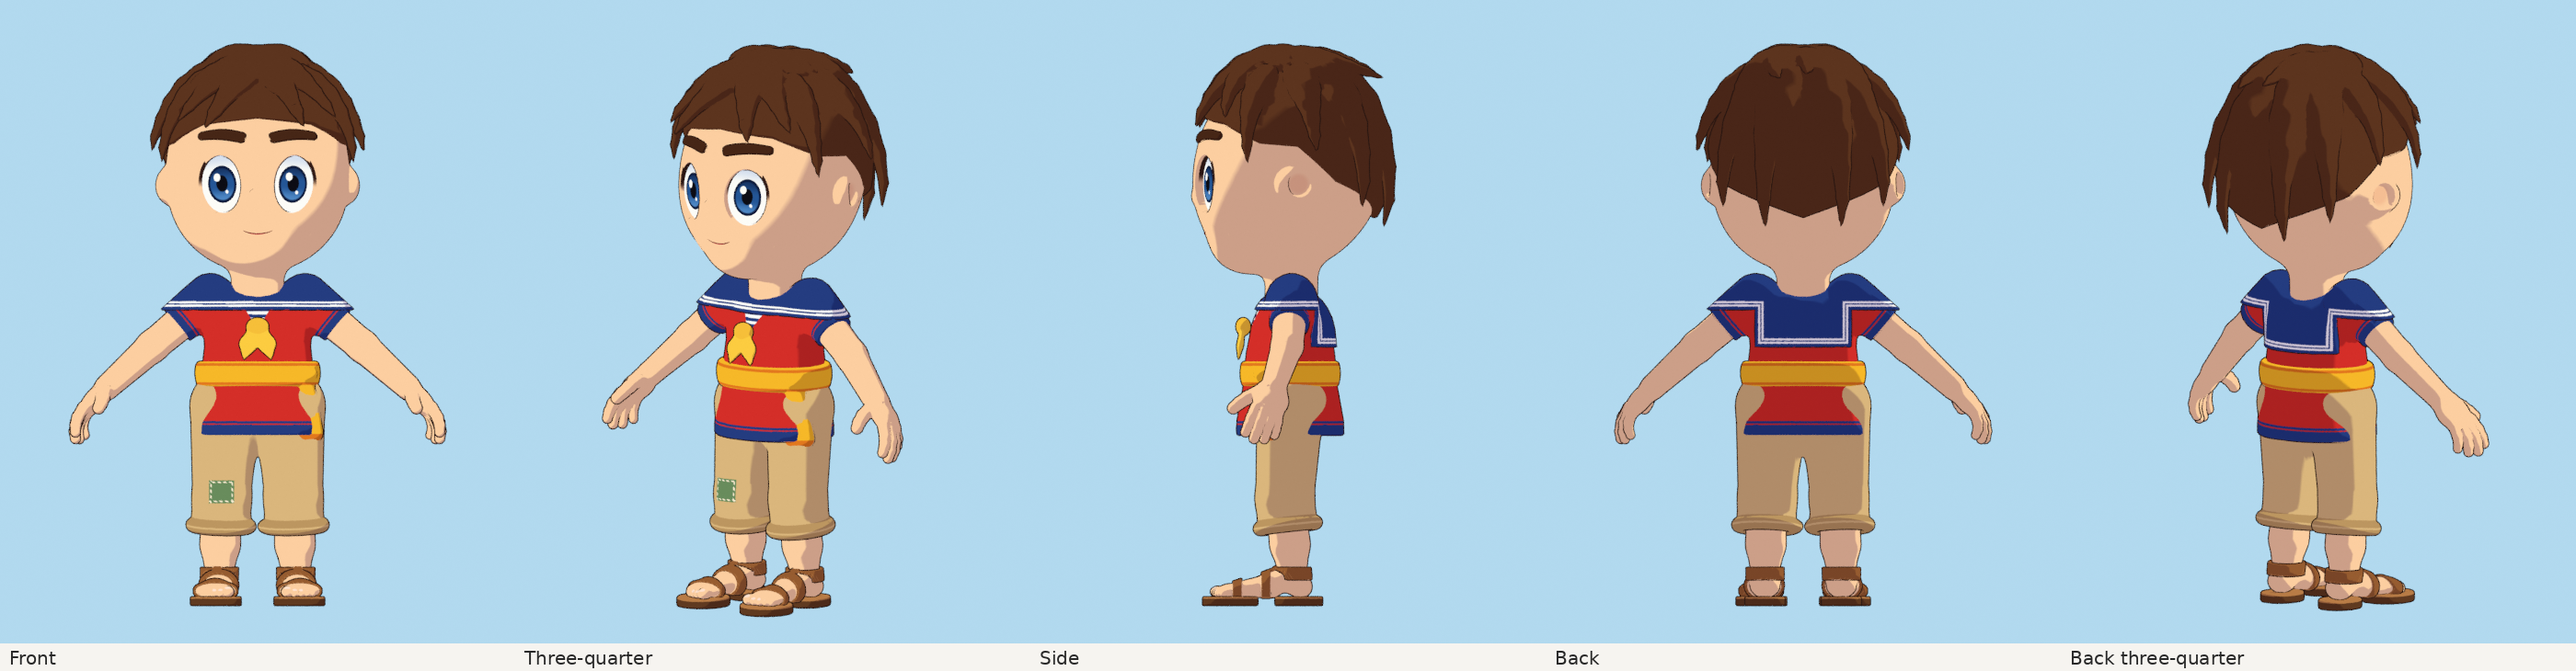
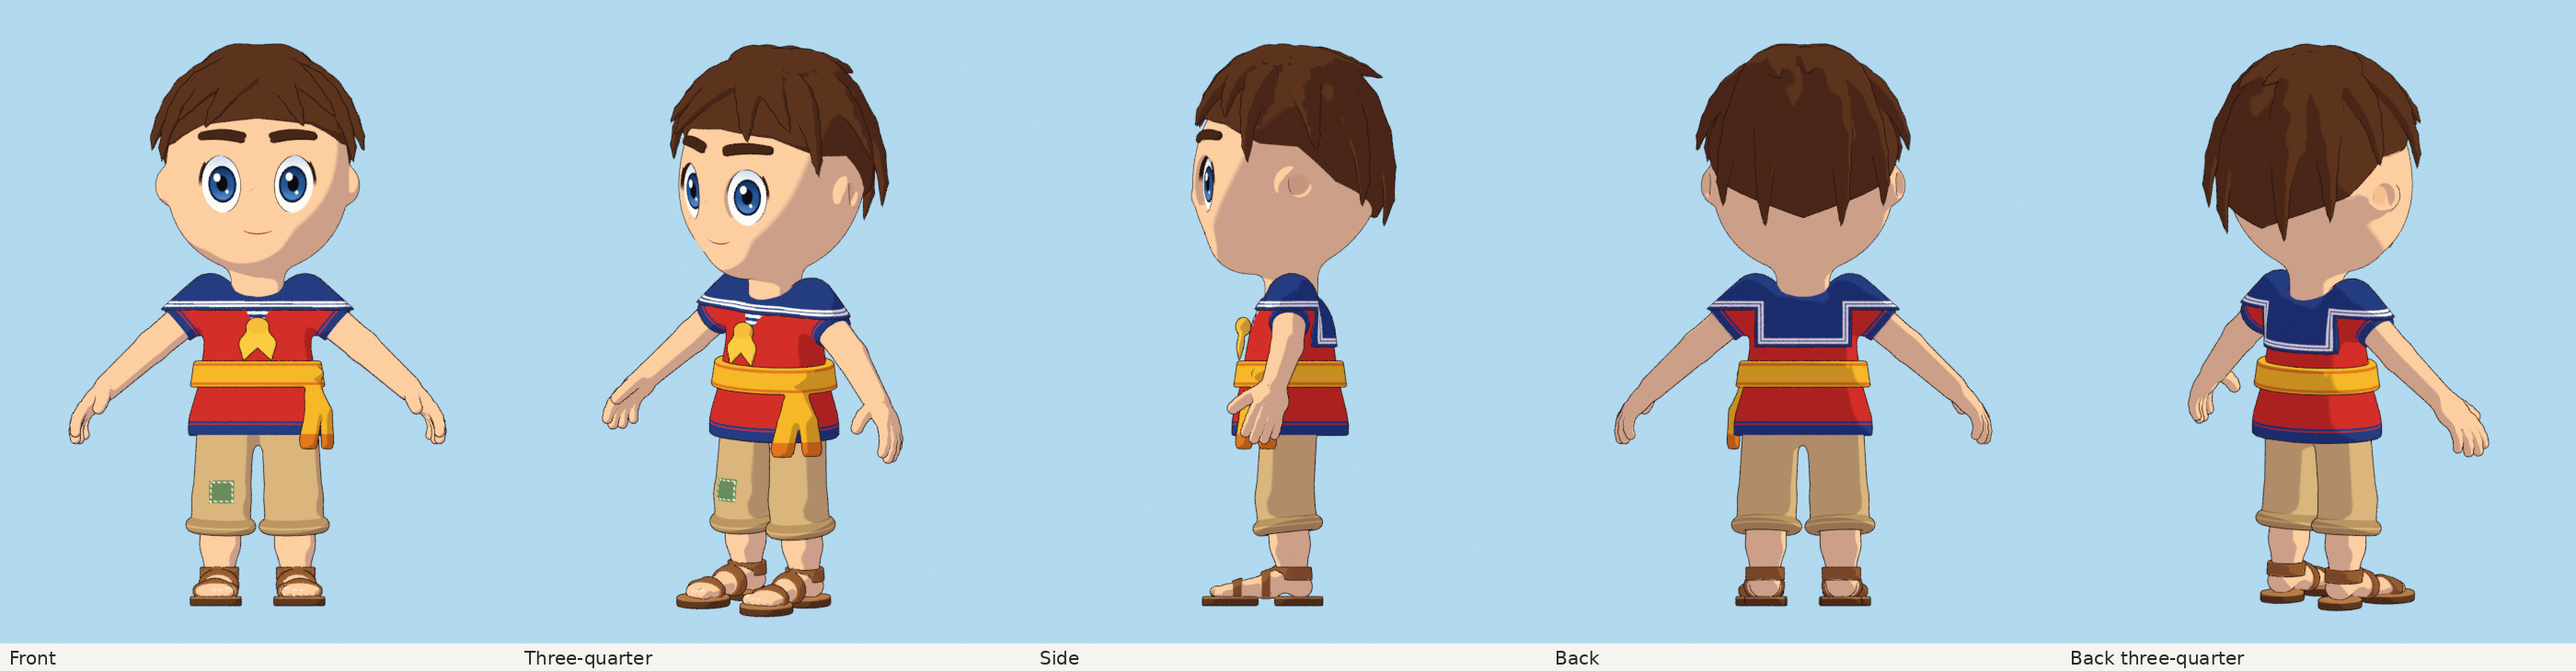
Kai: remove all layer clipping and add a clearance audit
Pants stay under the tunic, the sash and its tails follow the skirt, the neck
passes cleanly into the collar, and the calves meet the sandals only under the
ankle strap. tools/kai_clearance.py checks every layered pair.

Claude-Session: https://claude.ai/code/session_016GpJUtHsovbhGp1GMTd1Wt

diff --git a/tools/kai_geometry.py b/tools/kai_geometry.py
@@ -129,8 +129,13 @@ def stretched(P, a, normal, k):
     return P + np.outer((P - a) @ n, n) * (k - 1.0)
 
 
-def flat_chain(P, pts, widths, normal, k=2.6, blend=0.3):
-    return sd_chain(stretched(P, pts[0], normal, k), pts, widths, blend) / k ** 0.5
+def flat_chain(P, pts, widths, normal, k=2.6, blend=0.3, legacy=False):
+    """Round cones through pts, flattened by k along normal into a ribbon. (legacy: the original variant that
+    flattens only the evaluation points, which also pulls the ribbon toward the plane through pts[0].)"""
+    Q = stretched(P, pts[0], normal, k)
+    if not legacy:
+        pts = [stretched(np.atleast_2d(p), pts[0], normal, k)[0] for p in pts]
+    return sd_chain(Q, pts, widths, blend) / k ** 0.5
 
 
 def smooth01(x):
@@ -490,14 +495,13 @@ def vneck(P):
 def tunic_sdf(P):
     d = torso_core(P)
     Q = P.copy(); Q[:, 1] = (Q[:, 1] - 0.4) / 0.84 + 0.4                 # flared skirt, elliptic in section
-    d = smin(d, sd_round_cone(Q, (0, 0.4, Z["waist"]), (0, 0.4, HEM_Z + 1.0), 9.2, 11.6), 3.0)
+    d = smin(d, sd_round_cone(Q, (0, 0.4, Z["waist"]), (0, 0.4, HEM_Z + 1.0), 9.3, 12.6), 3.0)
     for side, s in SIDES:
         S, E, W, d2 = arm_points(s)
         d1 = nrm(E - S); end = S + d1 * 6.6
         sl = smax(sd_round_cone(P, S - d1 * 1.2, end, 3.75, 3.55), sd_plane(P, end, d1), 0.25)
         d = smin(d, sl, 1.8)
-    d = smax(d, sd_plane(P, (0, 0, HEM_Z), (0, 0, -1)), 0.35)               # hem
-    return smax(d, -sd_capsule(P, (0, 0.5, Z["neck"] - 3.0), (0, 0.5, Z["neck"] + 12.0), 4.4), 0.4)   # neck opening
+    return smax(d, sd_plane(P, (0, 0, HEM_Z), (0, 0, -1)), 0.35)            # hem (the neck simply passes into it)
 
 
 def collar_region(P):
@@ -533,13 +537,13 @@ def cuff_point(s):
 
 
 def pants_sdf(P):
-    d = sd_ellipsoid(P, np.array([0, 0.6, Z["pelvis"] + 1.6]), np.array([10.4, 7.6, 7.2]))
+    d = sd_ellipsoid(P, np.array([0, 0.6, Z["pelvis"] + 1.6]), np.array([9.4, 7.0, 7.2]))
     d = smax(d, sd_plane(P, (0, 0, Z["waist"] + 1.0), (0, 0, 1)), 0.4)      # top tucked under the tunic
     for side, s in SIDES:
         H, K, A, Bl, T = leg_points(s)
         C = cuff_point(s); ax = nrm(C - K)
-        leg = smax(sd_chain(P, [H + np.array([0, 0, 1.5]), K, C], [6.0, 5.2, 5.4], 0.8), sd_plane(P, C, ax), 0.3)
-        d = smin(d, leg, 3.2)
+        leg = smax(sd_chain(P, [H + np.array([-0.5 * s, 0, 1.5]), K, C], [5.0, 5.15, 5.4], 0.8), sd_plane(P, C, ax), 0.3)
+        d = smin(d, leg, 2.6)
         d = smin(d, sd_torus(P, C - ax * 0.3, ax, 5.1, 1.2), 0.4)
     return d
 
@@ -666,24 +670,47 @@ def _arms_box():
 # ---------------------------------------------------------------------------
 # Accessories
 # ---------------------------------------------------------------------------
+_SASH = {}
+
+
+def _on_tunic(p, out):
+    """Point on the tunic surface in the horizontal direction of p from the body axis, pushed out by out (cm)."""
+    d = np.array([p[0], p[1] - 0.4, 0.0]); d /= np.linalg.norm(d)
+    origin = np.array([0.0, 0.4, p[2]]) + d * 30.0
+    hit = ray_hits(origin, -d, tunic_sdf, t_max=30.0, steps=600)[0]
+    return hit + sdf_normals(hit, tunic_sdf)[0] * out
+
+
+def sash_knot():
+    if "knot" not in _SASH: _SASH["knot"] = _on_tunic(SASH_KNOT, 1.35)
+    return _SASH["knot"]
+
+
 def sash_tail_points():
+    """Two ribbon tails hanging from the knot, following the flare of the tunic's skirt."""
+    if "tails" in _SASH: return _SASH["tails"]
     out = []
-    for (dx, dy), w in (((0.6, -0.4), (1.5, 1.6, 1.9, 2.1)), ((1.8, 0.8), (1.4, 1.5, 1.7, 1.8))):
-        p = SASH_KNOT + np.array([0.2, -0.6, -0.6]); pts = [p]
-        for j in range(3):
-            p = p + np.array([dx * 0.35, dy * 0.3, -3.3]); pts.append(p)
+    k = sash_knot()
+    for (ang, spread), w in (((-14.0, 0.6), (1.5, 1.6, 1.85, 2.05)), ((10.0, 1.4), (1.4, 1.5, 1.7, 1.8))):
+        pts = [k + np.array([0, 0, -0.9])]
+        for j in range(1, 4):
+            z = k[2] - 0.9 - 3.4 * j
+            a = math.atan2(k[0], -(k[1] - 0.4)) + math.radians(ang) * j / 3.0
+            p = np.array([math.sin(a), -math.cos(a) + 0.4 / 30, 0.0]) * 10.0
+            pts.append(_on_tunic(np.array([p[0], p[1], z]), 0.95 + 0.15 * j + spread * 0.1 * j))
         out.append((pts, w))
+    _SASH["tails"] = out
     return out
 
 
 def sash_sdf(P):
-    waist = sd_ellipsoid(P, np.array([0, 0.4, Z["waist"] - 1.0]), np.array([9.7, 7.4, 6.4]))
-    band = smax(shell(waist, 0.95, 1.5), np.abs(P[:, 2] - (Z["waist"] - 1.2)) - 2.3, 0.6)
-    knot = sd_ellipsoid(P, SASH_KNOT + np.array([0.3, -0.5, 0.2]), np.array([2.1, 1.5, 1.8]), rot_axes([0.6, -0.8, 0], [0, 0, 1]))
+    band = smax(shell(tunic_sdf(P), 0.78, 1.3), np.abs(P[:, 2] - (Z["waist"] - 1.2)) - 2.3, 0.45)   # hugs the tunic
+    k = sash_knot(); out = nrm(np.array([k[0], k[1] - 0.4, 0.0]))
+    knot = sd_ellipsoid(P, k, np.array([2.0, 1.4, 1.75]), rot_axes(np.cross(UP, out), UP))
     d = smin(band, knot, 0.8)
-    out = nrm(np.array([0.6, -0.8, 0.0]))
-    for pts, w in sash_tail_points():
-        d = smin(d, flat_chain(P, pts, w, out, 2.8), 0.6)
+    for pts, w in sash_tail_points():                               # each ribbon lies flat on the skirt beneath it
+        nt = nrm(sdf_normals(np.array(pts[1:]), tunic_sdf).mean(0))
+        d = smin(d, flat_chain(P, pts, w, nt, 2.8), 0.6)
     return d
 
 
@@ -747,7 +774,7 @@ def clump(P, root, tip, width, lift=1.5, bulge=2.0, k=1.5, n=7):
     normal = nrm(pts[n // 2] - HEAD_C)
     widths = [width * (1 - t) ** 0.65 * (0.75 + 0.25 * math.sin(math.pi * min(1.0, t * 1.6))) + 0.07
               for t in np.linspace(0, 1, n)]
-    return flat_chain(P, pts, widths, normal, k, 0.5)
+    return flat_chain(P, pts, widths, normal, k, 0.5, legacy=True)
 
 
 CROWN = (165, 76)

diff --git a/tools/kai_clearance.py b/tools/kai_clearance.py
@@ -1,0 +1,73 @@
+#!/usr/bin/env python3
+"""Check that Kai's layered parts never poke through each other in the rest pose.
+
+    python3 tools/kai_clearance.py
+
+For every pair of parts that overlap, samples the inner part's surface and measures it against the outer part's
+signed distance field. Prints the worst offenders; exits non-zero if anything shows through.
+"""
+import sys, os
+import numpy as np
+sys.path.insert(0, os.path.dirname(os.path.abspath(__file__)))
+import kai_geometry as G
+
+
+def surface(fn, box, h=0.3):
+    v, f = G.polygonize(fn, box, h)
+    return v
+
+
+def check(name, pts, outer_sdf, region, want_inside, margin):
+    pts = pts[region(pts)]
+    d = outer_sdf(pts)
+    bad = d > -margin if want_inside else d < margin
+    worst = (d.max() if want_inside else d.min()) if len(d) else 0.0
+    print(f"{name:52s} samples {len(pts):6d}  through {int(bad.sum()):5d}  worst {worst:+.3f} cm", flush=True)
+    return int(bad.sum())
+
+
+arm_end = {}
+for side, s in G.SIDES:
+    S, E, W, d2 = G.arm_points(s); d1 = G.nrm(E - S); arm_end[s] = (S, d1, S + d1 * 6.6)
+
+
+def under_sleeve(P):
+    m = np.zeros(len(P), bool)
+    for s in (1.0, -1.0):
+        S, d1, end = arm_end[s]
+        m |= ((P - end) @ d1 < -0.4) & (np.sign(P[:, 0]) == s)
+    return m
+
+
+def above_cuff(P):
+    m = np.zeros(len(P), bool)
+    for s in (1.0, -1.0):
+        H, K, A, Bl, T = G.leg_points(s); C = G.cuff_point(s); ax = G.nrm(C - K)
+        m |= ((P - C) @ ax < -0.6) & (np.sign(P[:, 0]) == s)
+    return m
+
+
+bad = 0
+pants = surface(G.pants_sdf, G.PANTS_BOX)
+bad += check("pants hidden under the tunic (above the hem)", pants, G.tunic_sdf, lambda P: P[:, 2] > G.HEM_Z + 0.4, True, 0.08)
+legs = surface(G.legs_sdf, G.LEGS_BOX)
+bad += check("calves hidden in the pants legs (above the cuff)", legs, G.pants_sdf, above_cuff, True, 0.08)
+arms = surface(G.arms_sdf, G.part_box("arms"))
+bad += check("upper arms hidden in the sleeves", arms, G.tunic_sdf, under_sleeve, True, 0.08)
+head = surface(G.head_base_sdf, G.HEAD_BOX)
+bad += check("neck hidden in the tunic and collar (below the collar)", head,
+             lambda P: np.minimum(G.tunic_sdf(P), G.collar_sdf(P)), lambda P: P[:, 2] < G.Z["shoulder"] - 0.2, True, 0.05)
+sash = surface(G.sash_sdf, G.SASH_BOX)
+bad += check("sash band and tails sit on the tunic (knot excluded)", sash, G.tunic_sdf,
+             lambda P: np.linalg.norm(P - G.sash_knot(), axis=1) > 2.6, False, 0.02)
+kerch = surface(G.neckerchief_sdf, G.KERCHIEF_BOX)
+bad += check("neckerchief sits on the tunic", kerch, G.tunic_sdf, lambda P: np.ones(len(P), bool), False, 0.02)
+collar = surface(G.collar_sdf, G.TUNIC_BOX)
+bad += check("collar sits on the tunic", collar, G.tunic_sdf, lambda P: np.ones(len(P), bool), False, 0.02)
+# the calves meet the sandals (which own the feet) only under the ankle strap
+z0, z1 = G.ankle_band(1.0)
+bad += check("calves clear of the sandals outside the ankle strap", legs, G.sandal_sdf,
+             lambda P: (P[:, 2] < z0 - 0.05) | (P[:, 2] > z1 + 0.25), False, 0.05)
+bad += check("calf ends are hidden inside the ankle strap", legs, G.sandal_sdf, lambda P: P[:, 2] < z0 + 0.6, True, 0.02)
+print("CLEARANCE_OK" if bad == 0 else f"CLEARANCE_FAIL {bad}")
+sys.exit(1 if bad else 0)
